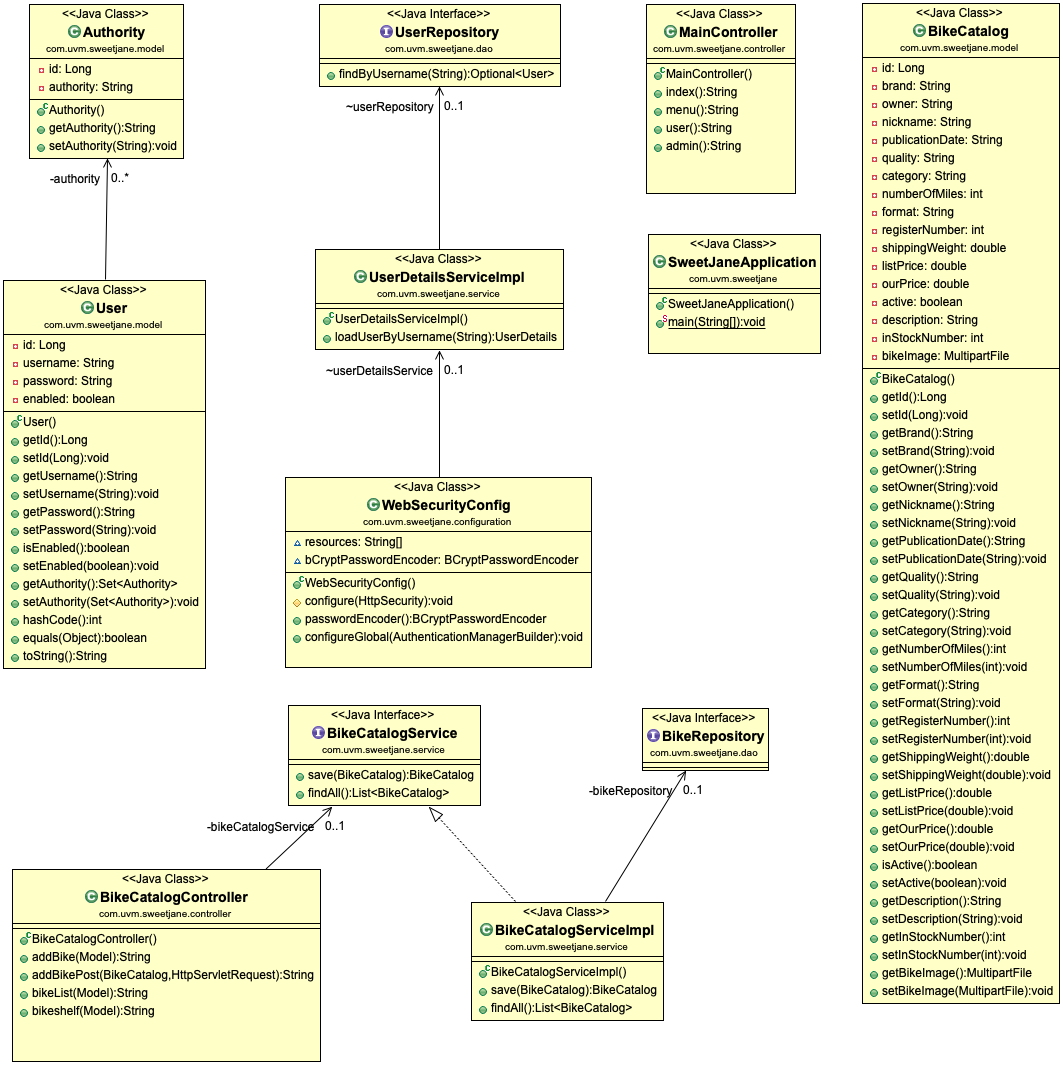
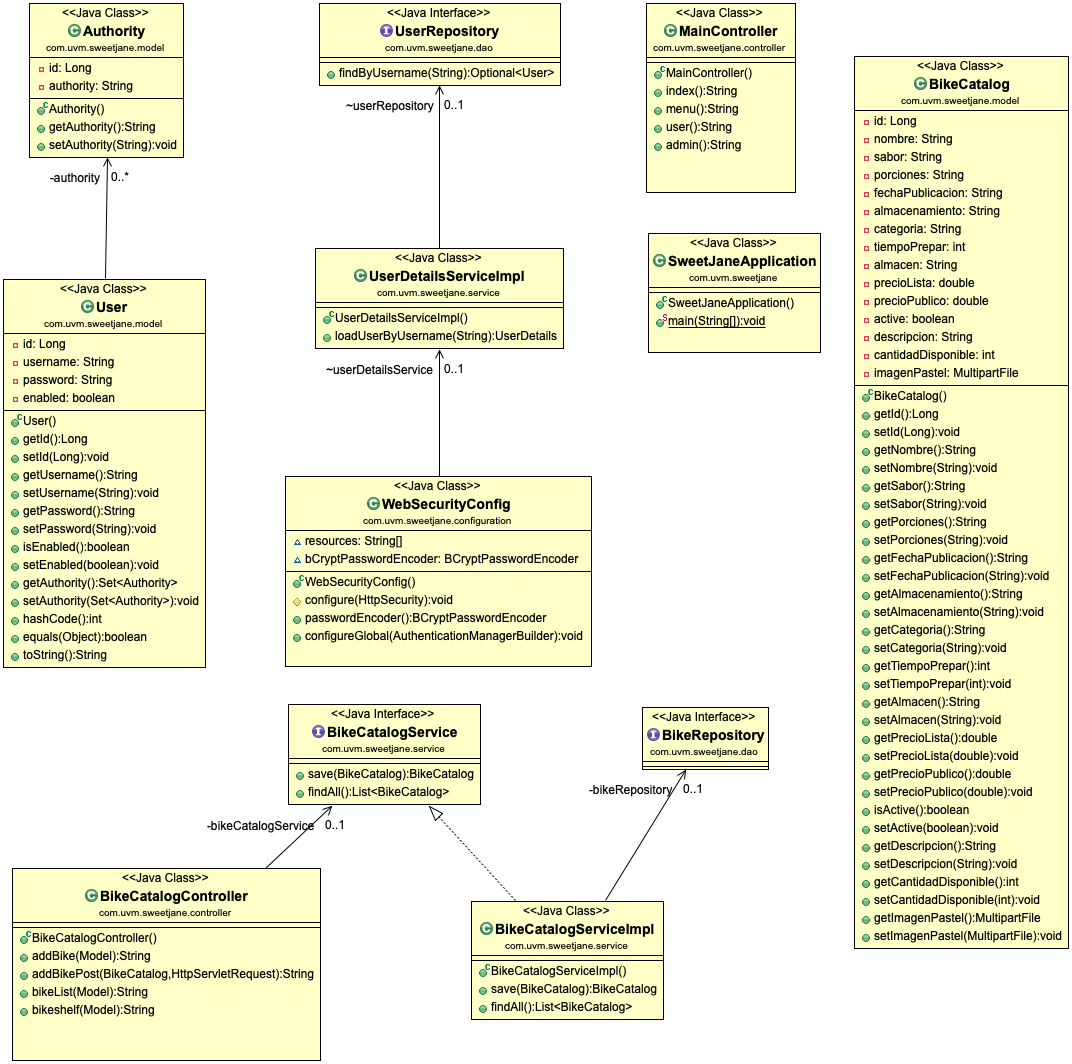
Refactor Labels

diff --git a/src/main/java/com/uvm/sweetjane/model/BikeCatalog.java b/src/main/java/com/uvm/sweetjane/model/BikeCatalog.java
@@ -8,13 +8,7 @@
 
 package com.uvm.sweetjane.model;
 
-import javax.persistence.Column;
-import javax.persistence.Entity;
-import javax.persistence.GeneratedValue;
-import javax.persistence.GenerationType;
-import javax.persistence.Id;
-import javax.persistence.Transient;
-
+import javax.persistence.*;
 import org.springframework.web.multipart.MultipartFile;
 
 
@@ -24,26 +18,24 @@ public class BikeCatalog {
 	@Id
 	@GeneratedValue( strategy=GenerationType.AUTO )
 	private Long id;
-	private String brand;
-	private String owner;
-	private String nickname;
-	private String publicationDate;
-	private String quality;
-	private String category;
-	private int numberOfMiles;
-	private String format;
-	private int registerNumber;
-	private double shippingWeight;
-	private double listPrice;
-	private double ourPrice;
+	private String nombre;
+	private String sabor;
+	private String porciones;
+	private String fechaPublicacion;
+	private String almacenamiento;
+	private String categoria;
+	private int tiempoPrepar;
+	private String almacen;
+	private double precioLista;
+	private double precioPublico;
 	private boolean active=true;
 	
 	@Column( columnDefinition="text" )
-	private String description;
-	private int inStockNumber;
+	private String descripcion;
+	private int cantidadDisponible;
 	
 	@Transient
-	private MultipartFile bikeImage;
+	private MultipartFile imagenPastel;
 
 	public Long getId() {
 		return id;
@@ -53,100 +45,84 @@ public class BikeCatalog {
 		this.id = id;
 	}
 
-	public String getBrand() {
-		return brand;
+	public String getNombre() {
+		return nombre;
 	}
 
-	public void setBrand(String title) {
-		this.brand = title;
+	public void setNombre(String title) {
+		this.nombre = title;
 	}
 
-	public String getOwner() {
-		return owner;
+	public String getSabor() {
+		return sabor;
 	}
 
-	public void setOwner(String author) {
-		this.owner = author;
+	public void setSabor(String author) {
+		this.sabor = author;
 	}
 
-	public String getNickname() {
-		return nickname;
+	public String getPorciones() {
+		return porciones;
 	}
 
-	public void setNickname(String publisher) {
-		this.nickname = publisher;
+	public void setPorciones(String publisher) {
+		this.porciones = publisher;
 	}
 
-	public String getPublicationDate() {
-		return publicationDate;
+	public String getFechaPublicacion() {
+		return fechaPublicacion;
 	}
 
-	public void setPublicationDate(String publicationDate) {
-		this.publicationDate = publicationDate;
+	public void setFechaPublicacion(String publicationDate) {
+		this.fechaPublicacion = publicationDate;
 	}
 
-	public String getQuality() {
-		return quality;
+	public String getAlmacenamiento() {
+		return almacenamiento;
 	}
 
-	public void setQuality(String language) {
-		this.quality = language;
+	public void setAlmacenamiento(String language) {
+		this.almacenamiento = language;
 	}
 
-	public String getCategory() {
-		return category;
+	public String getCategoria() {
+		return categoria;
 	}
 
-	public void setCategory(String category) {
-		this.category = category;
+	public void setCategoria(String category) {
+		this.categoria = category;
 	}
 
-	public int getNumberOfMiles() {
-		return numberOfMiles;
+	public int getTiempoPrepar() {
+		return tiempoPrepar;
 	}
 
-	public void setNumberOfMiles(int numberOfPages) {
-		this.numberOfMiles = numberOfPages;
+	public void setTiempoPrepar(int numberOfPages) {
+		this.tiempoPrepar = numberOfPages;
 	}
 
-	public String getFormat() {
-		return format;
+	public String getAlmacen() {
+		return almacen;
 	}
 
-	public void setFormat(String format) {
-		this.format = format;
+	public void setAlmacen(String format) {
+		this.almacen = format;
 	}
 
-	public int getRegisterNumber() {
-		return registerNumber;
+	public double getPrecioLista() {
+		return precioLista;
 	}
 
-	public void setRegisterNumber(int isbn) {
-		this.registerNumber = isbn;
+	public void setPrecioLista(double listPrice) {
+		this.precioLista = listPrice;
 	}
 
-	public double getShippingWeight() {
-		return shippingWeight;
+	public double getPrecioPublico() {
+		return precioPublico;
 	}
 
-	public void setShippingWeight(double shippingWeight) {
-		this.shippingWeight = shippingWeight;
-	}
-
-	public double getListPrice() {
-		return listPrice;
-	}
-
-	public void setListPrice(double listPrice) {
-		this.listPrice = listPrice;
-	}
-
-	public double getOurPrice() {
-		return ourPrice;
-	}
-
-	public void setOurPrice(double ourPrice) {
-		this.ourPrice = ourPrice;
+	public void setPrecioPublico(double ourPrice) {
+		this.precioPublico = ourPrice;
 	}
 
 	public boolean isActive() {
@@ -157,29 +133,27 @@ public class BikeCatalog {
 		this.active = active;
 	}
 
-	public String getDescription() {
-		return description;
+	public String getDescripcion() {
+		return descripcion;
 	}
 
-	public void setDescription(String description) {
-		this.description = description;
+	public void setDescripcion(String description) {
+		this.descripcion = description;
 	}
 
-	public int getInStockNumber() {
-		return inStockNumber;
+	public int getCantidadDisponible() {
+		return cantidadDisponible;
 	}
 
-	public void setInStockNumber(int inStockNumber) {
-		this.inStockNumber = inStockNumber;
+	public void setCantidadDisponible(int inStockNumber) {
+		this.cantidadDisponible = inStockNumber;
 	}
 
-	public MultipartFile getBikeImage() {
-		return bikeImage;
+	public MultipartFile getImagenPastel() {
+		return imagenPastel;
 	}
 
-	public void setBikeImage(MultipartFile bikeImage) {
-		this.bikeImage = bikeImage;
+	public void setImagenPastel(MultipartFile bikeImage) {
+		this.imagenPastel = bikeImage;
 	}
-	
-	
 }

diff --git a/src/main/java/com/uvm/sweetjane/model/User.java b/src/main/java/com/uvm/sweetjane/model/User.java
@@ -5,16 +5,7 @@ package com.uvm.sweetjane.model;
 
 import java.util.Set;
 
-import javax.persistence.Column;
-import javax.persistence.Entity;
-import javax.persistence.FetchType;
-import javax.persistence.GeneratedValue;
-import javax.persistence.GenerationType;
-import javax.persistence.Id;
-import javax.persistence.JoinColumn;
-import javax.persistence.JoinTable;
-import javax.persistence.ManyToMany;
-
+import javax.persistence.*;
 import com.uvm.sweetjane.model.Authority;
 import com.uvm.sweetjane.model.User;
 

diff --git a/src/main/java/com/uvm/sweetjane/model/Authority.java b/src/main/java/com/uvm/sweetjane/model/Authority.java
@@ -3,11 +3,7 @@
  */
 package com.uvm.sweetjane.model;
 
-import javax.persistence.Column;
-import javax.persistence.Entity;
-import javax.persistence.GeneratedValue;
-import javax.persistence.GenerationType;
-import javax.persistence.Id;
+import javax.persistence.*;
 
 /**
  * @author Andres Ramirez
@@ -29,6 +25,4 @@ public class Authority {
 	public void setAuthority(String authority) {
 		this.authority = authority;
 	}
-
-
 }

diff --git a/src/main/java/com/uvm/sweetjane/controller/BikeCatalogController.java b/src/main/java/com/uvm/sweetjane/controller/BikeCatalogController.java
@@ -43,7 +43,7 @@ public class BikeCatalogController {
 		(@ModelAttribute ("bike_catalog") BikeCatalog bc, HttpServletRequest request) {
 		bikeCatalogService.save (bc);
 		
-		MultipartFile bikeImage = bc.getBikeImage();
+		MultipartFile bikeImage = bc.getImagenPastel();
 		
 				try {
 					byte[] bytes = bikeImage.getBytes();
